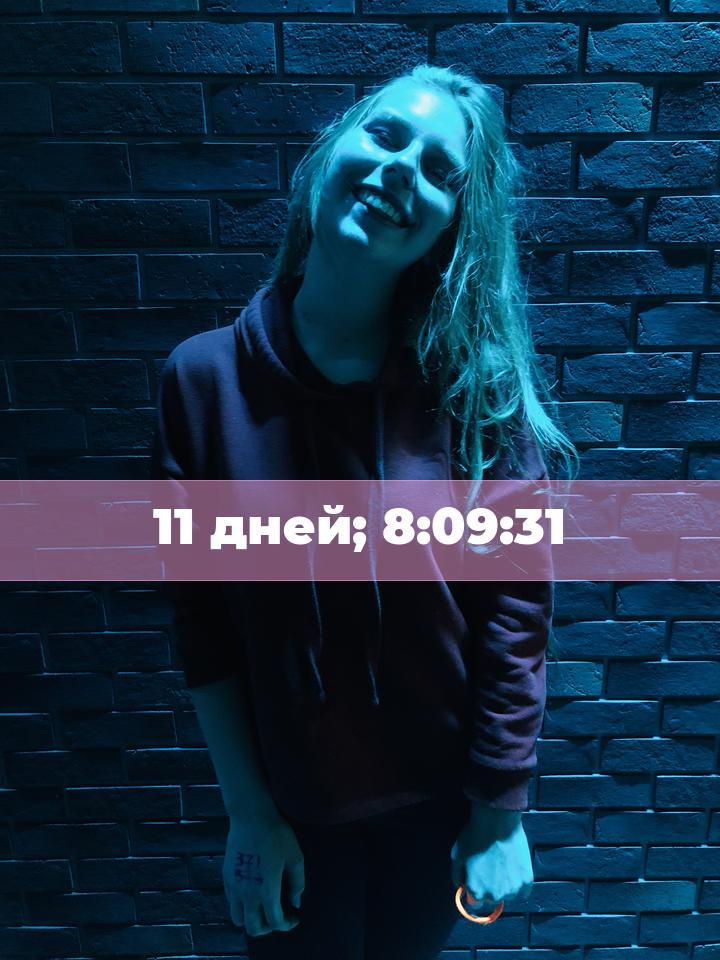
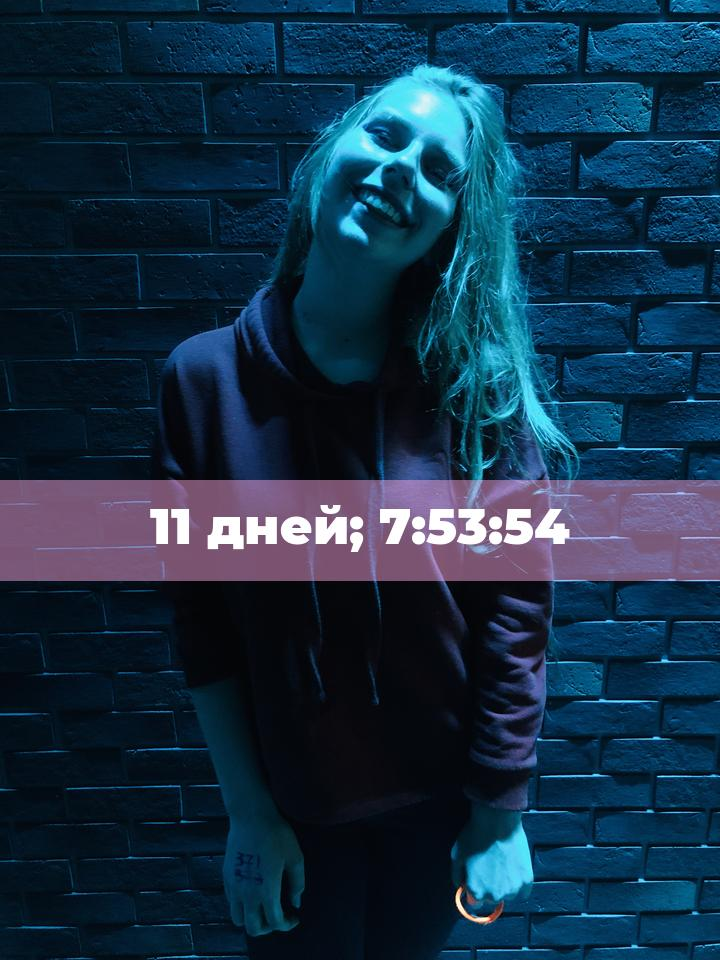
almost finished app

Changed region(s): [[0.2139, 0.5312, 0.7944, 0.5938]]

diff --git a/KateBot/main.py b/KateBot/main.py
@@ -1,6 +1,6 @@
 import vk_api.vk_api
 from vk_api.bot_longpoll import VkBotLongPoll
-from datetime import timedelta, datetime
+from datetime import datetime
 from vk_api.utils import get_random_id
 from pytz import timezone
 import pytz
@@ -19,11 +19,12 @@ open_door = [332244874, 306255161]
 
 class Server:
     # Преобразуем аремя
-    utc = pytz.utc
-    moscow = timezone('Europe/Moscow')
+    #  utc = pytz.utc
+    #  moscow = timezone('Europe/Moscow')
 
     # Дата дня рождения
-    date_end = moscow.localize(datetime(2020, 4, 14))
+    #  date_end = moscow.localize(datetime(2020, 4, 14))
+    date_end = datetime(2020, 4, 14)
 
     def __init__(self, api_token, app_token, group_id, db_session, server_name="None"):
         # Имя сервера
